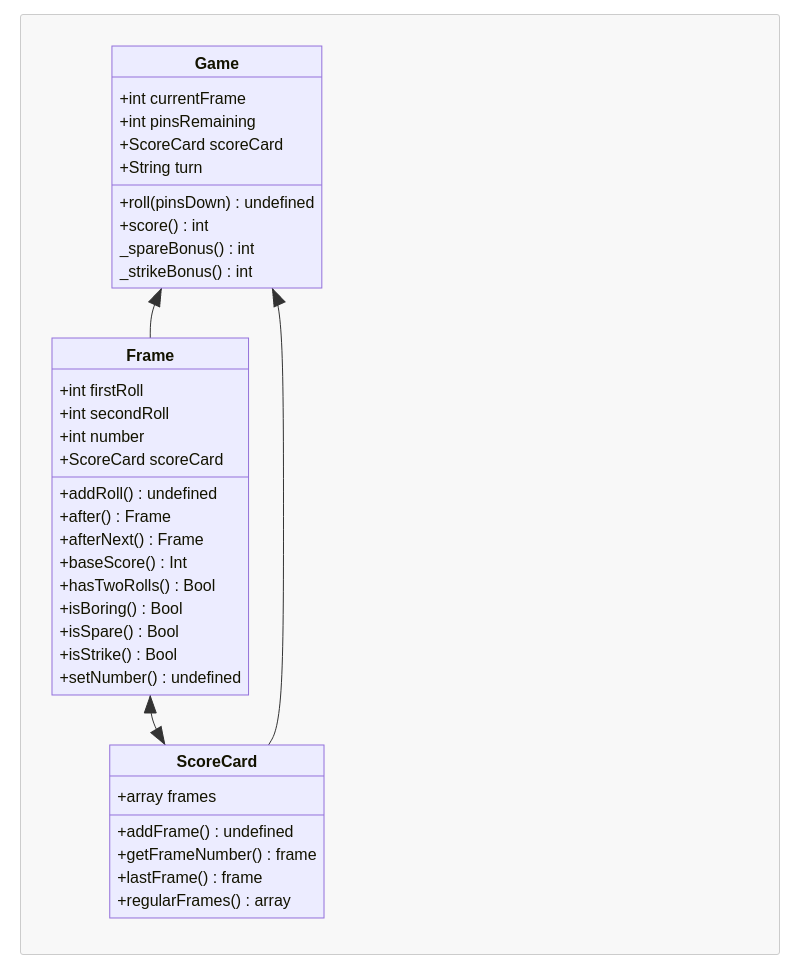
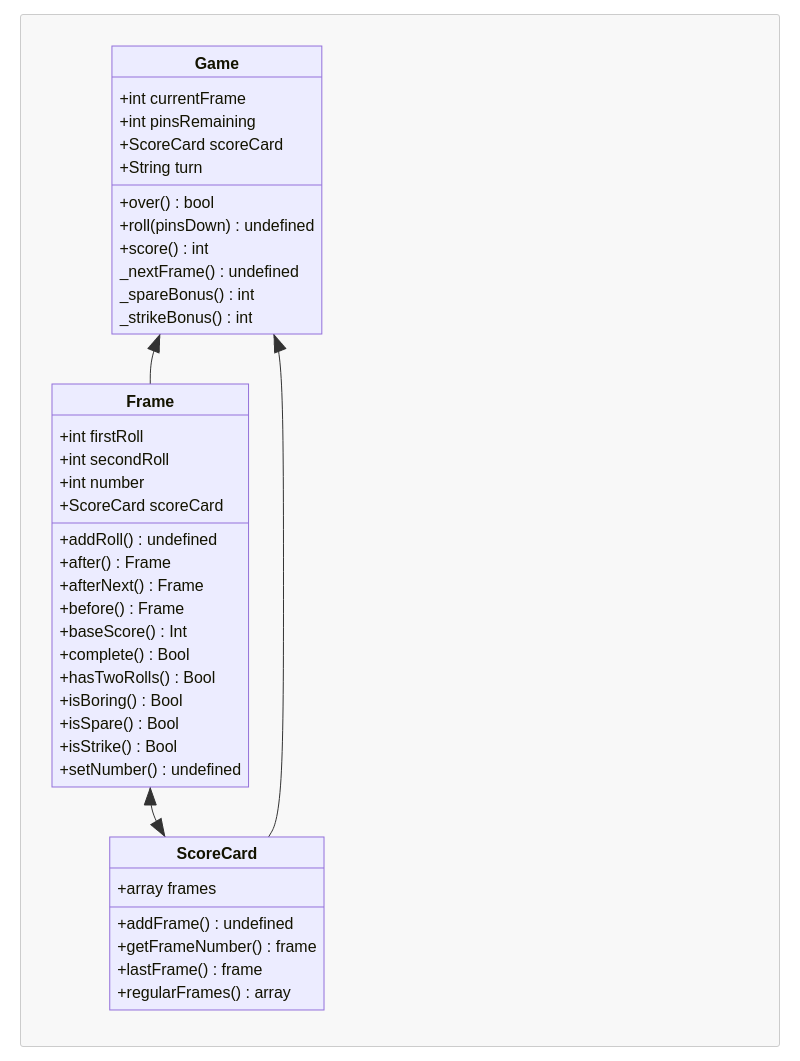
Adding game over criteria

Changed region(s): [[0.0625, 0.031, 0.4062, 0.9598]]

diff --git a/src/game.js b/src/game.js
@@ -1,9 +1,39 @@
 class Game {
   constructor(scoreCard) {
-    this.currentFrame = 1;
-    this.pinsRemaining = 10;
+    this.currentFrame = 0;
+    this.pinsRemaining;
     this.scoreCard = scoreCard;
-    this.turn = "first";
+    this.turn;
+
+    this._nextFrame()
+  }
+
+  over() {
+    if (this.currentFrame < 10 || !this.scoreCard.lastFrame().complete()) {
+      return false;
+    }
+
+    let lastFrame = this.scoreCard.lastFrame()
+
+    let regularGame = (
+      lastFrame.number == 10 &&
+      lastFrame.complete() &&
+      lastFrame.isBoring()
+    )
+
+    let finalSpare = (
+      lastFrame.number == 11 &&
+      lastFrame.complete() &&
+      this.scoreCard.getFrameNumber(10).isSpare()
+    )
+
+    let finalStrike = (
+      lastFrame.number == 12 &&
+      lastFrame.complete() &&
+      this.scoreCard.getFrameNumber(10).isStrike()
+    )
+
+    return (regularGame || finalSpare || finalStrike)
   }
 
   roll(pinsDown) {
@@ -12,15 +42,12 @@ class Game {
         this.pinsRemaining = 10 - pinsDown;
         this.turn = "second";
       } else {
-        this.pinsRemaining = 10;
-        this.currentFrame ++;
+        this._nextFrame();
       }
 
       new Frame(this.scoreCard);
     } else {
-      this.turn = "first";
-      this.pinsRemaining = 10;
-      this.currentFrame ++;
+      this._nextFrame();
     }
 
     this.scoreCard.lastFrame().addRoll(pinsDown);
@@ -31,11 +58,18 @@ class Game {
 
     this.scoreCard.regularFrames().forEach((frame) => {
       total += frame.baseScore();
+
       if (frame.isSpare()) total += this._spareBonus(frame);
       if (frame.isStrike()) total += this._strikeBonus(frame);
     })
 
     return total;
+  }
+
+  _nextFrame() {
+    this.pinsRemaining = 10;
+    this.currentFrame ++;
+    this.turn = "first";
   }
 
   _spareBonus(frame) {
@@ -44,6 +78,7 @@ class Game {
 
   _strikeBonus(frame) {
     let bonus = 0;
+
     if (frame.after()) {
       if (frame.after()) bonus += frame.after().baseScore();
     }

diff --git a/src/play.js b/src/play.js
@@ -15,14 +15,16 @@ function createButton(num) {
 }
 
 function generateButtons() {
-  document.querySelectorAll('.rollButton').forEach((b) => {
-    document.querySelector('#buttons').removeChild(b)
-  })
+  if (!game.over()) {
+    document.querySelectorAll('.rollButton').forEach((b) => {
+      document.querySelector('#buttons').removeChild(b)
+    })
 
-  for (let i = 0; i <= game.pinsRemaining; i++) {
-    rollButton = createButton(i);
+    for (let i = 0; i <= game.pinsRemaining; i++) {
+      rollButton = createButton(i);
 
-    document.querySelector('#buttons').appendChild(rollButton);
+      document.querySelector('#buttons').appendChild(rollButton);
+    }
   }
 }
 
@@ -39,14 +41,30 @@ function showTurn() {
   document.querySelector('#turn').innerHTML = `Enter ${game.turn} roll:`;
 }
 
+function showGameOver() {
+  document.querySelector('body').removeChild(score);
+  document.querySelector('body').removeChild(rollContainer);
+
+  document.querySelector('#game-over')
+  .innerHTML = `Game over! Final score ${game.score()}`;
+}
+
 function updateInfo() {
-  showScore();
-  showFrame();
-  showTurn();
-  generateButtons();
+  if (game.over()) {
+    showGameOver()
+  } else {
+    showScore();
+    showFrame();
+    showTurn();
+    generateButtons();
+  }
 }
 
 document.addEventListener("DOMContentLoaded", () => {
+  gameOver = document.createElement("div");
+  gameOver.setAttribute('id', 'game-over');
+  document.querySelector('body').appendChild(gameOver);
+
   score = document.createElement("div");
   score.setAttribute('id', 'score');
   document.querySelector('body').appendChild(score);

diff --git a/spec/GameSpec.js b/spec/GameSpec.js
@@ -38,6 +38,40 @@ describe('Game', () => {
     expect(game.scoreCard.getFrameNumber(4).firstRoll).toEqual(2);
   });
 
+  describe('the over function', () => {
+    it("knows the game's not over until it's over", () => {
+      for(let i = 0; i < 19; i++) {
+        game.roll(1);
+      }
+
+      expect(game.over()).toBe(false);
+    });
+
+    it('knows the game is over after a boring 10th frame', () => {
+      for(let i = 0; i < 20; i++) {
+        game.roll(1);
+      }
+
+      expect(game.over()).toBe(true);
+    });
+
+    it('knows the game is over after a spare in the 10th frame + one bonus roll', () => {
+      for(let i = 0; i < 21; i++) {
+        game.roll(5);
+      }
+
+      expect(game.over()).toBe(true);
+    });
+
+    it('knows the game is over after a strike in the 10th frame + two bonus rolls', () => {
+      for(let i = 0; i < 12; i++) {
+        game.roll(10);
+      }
+
+      expect(game.over()).toBe(true);
+    });
+  });
+
   describe('the score function', () => {
     it('calculates the correct score for a single incomplete frame', () => {
       game.roll(3);

diff --git a/src/frame.js b/src/frame.js
@@ -18,7 +18,6 @@ class Frame {
   }
 
   afterNext() {
-    let after = this.after()
     let afterNext = this.after() ? this.after().after() : null
 
     return afterNext;
@@ -33,12 +32,30 @@ class Frame {
     return score;
   }
 
+  before() {
+    let before = this.scoreCard.getFrameNumber(this.number - 1)
+    
+    return before ? before : null
+  }
+
+  complete() {
+    return (
+      this.hasTwoRolls() ||
+      this.isStrike() ||
+      (this.number == 11 && this.firstRoll && this.before().isSpare())
+      )
+  }
+
   hasTwoRolls() {
     return this.secondRoll != null;
   }
 
   isBoring() {
     return this.baseScore() < 10;
+  }
+
+  isComplete() {
+    return (this.hasTwoRolls() || this.isStrike())
   }
 
   isSpare() {

diff --git a/spec/FrameSpec.js b/spec/FrameSpec.js
@@ -34,6 +34,31 @@ describe('Frame', () => {
     expect(frame.secondRoll).toBe(2);
   });
 
+  it('is incomplete when it contains one non-strike roll', () => {
+    frame.addRoll(5);
+
+    expect(frame.complete()).toBe(false);
+  });  
+  
+  it('is complete when it contains two rolls', () => {
+    frame.addRoll(5);
+    frame.addRoll(5);
+
+    expect(frame.complete()).toBe(true);
+  });
+
+  it('is complete when it contains a strike', () => {
+    frame.addRoll(10);
+
+    expect(frame.complete()).toBe(true);
+  });
+
+  it('can access the previous frame', () => {
+    frame2 = new Frame(scoreCard);
+
+    expect(frame2.before()).toBe(frame);
+  });
+
   it('can access the next frame', () => {
     frame2 = new Frame(scoreCard);
 

diff --git a/CLASSES.md b/CLASSES.md
@@ -9,7 +9,9 @@
           +addRoll() undefined
           +after() Frame
           +afterNext() Frame
+          +before() Frame
           +baseScore() Int
+          +complete() Bool
           +hasTwoRolls() Bool
           +isBoring() Bool
           +isSpare() Bool
@@ -33,9 +35,11 @@
         +ScoreCard scoreCard
         +String turn
 
+        +over() bool
         +roll(pinsDown) undefined
         +score() int
 
+        _nextFrame() undefined
         _spareBonus() int
         _strikeBonus() int
       }
